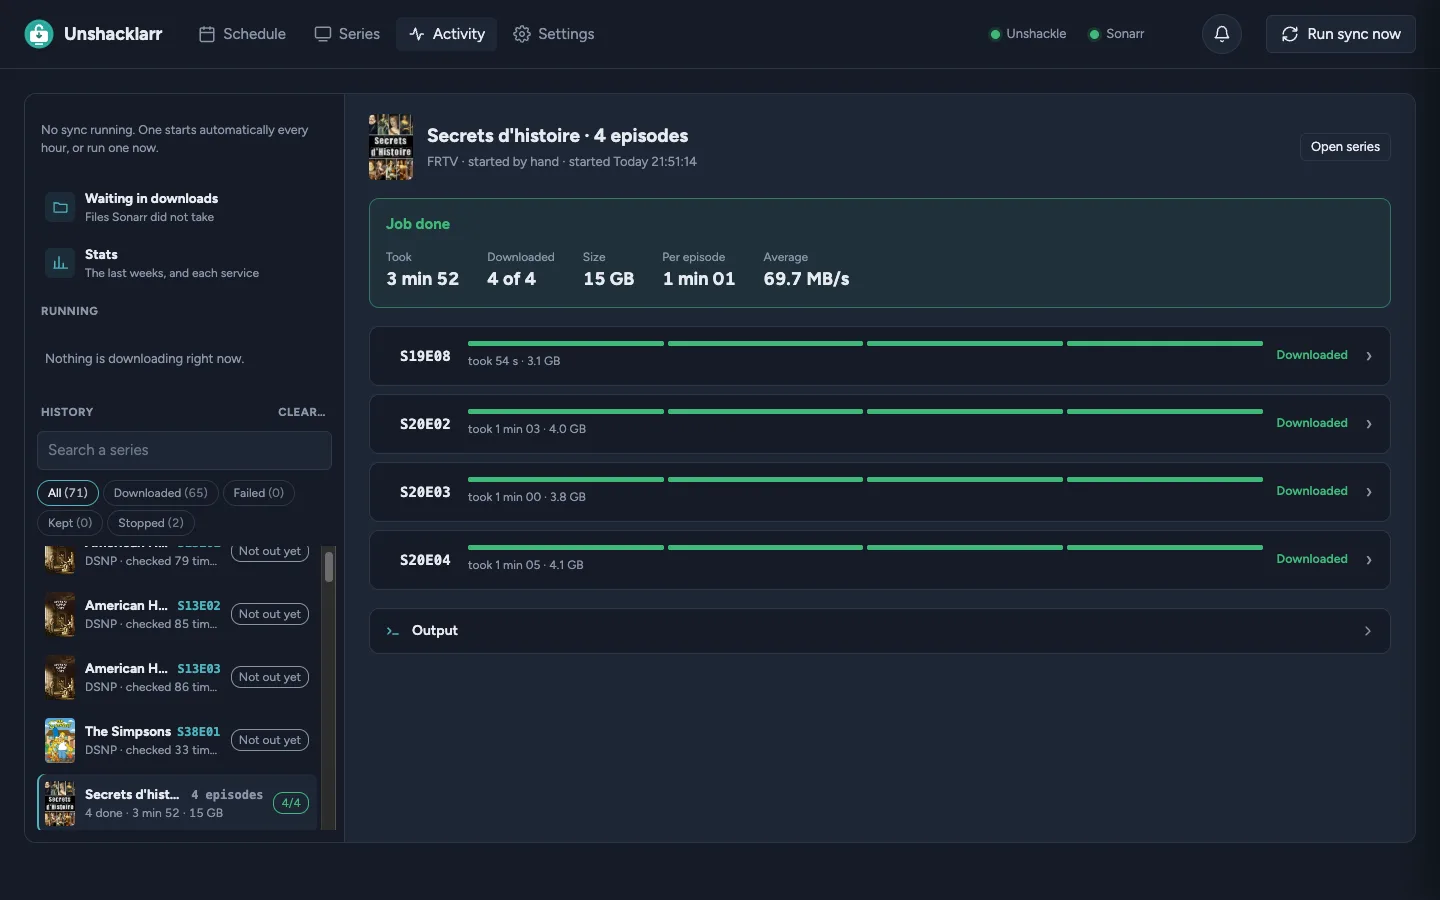
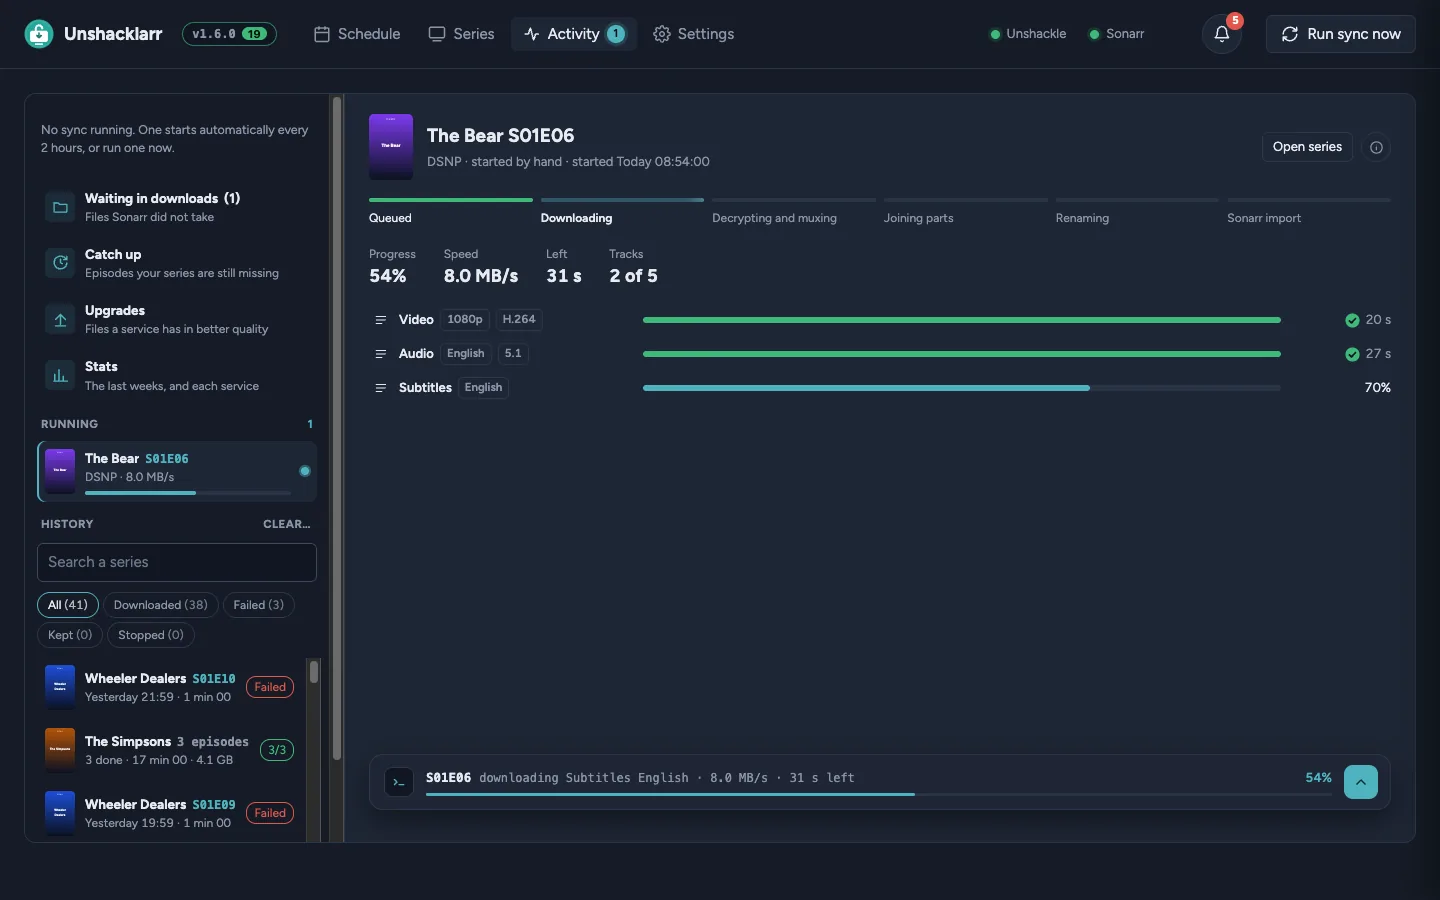
docs: 1.6.0 prepared, its changelog by theme, What's new for orig and any service option, the README's long jobs and proxies, Activity's screenshot with its bar

diff --git a/unshacklarr/static/js/news.js b/unshacklarr/static/js/news.js
@@ -20,6 +20,8 @@ const NEWS = [
   { id: "upgrade-spread", version: "1.5.0", title: "Spread the questions", sec: "upgrades", target: "#ug-spread-field" },
   { id: "upgrade-new", version: "1.5.0", title: "Check new series", sec: "upgrades", target: "#ug-new-field" },
   { id: "downloads-at-once", version: "1.5.0", title: "Downloads at once", sec: "unshackle", target: "#ux-at-once-field" },
+  { id: "orig-audio", version: "1.6.0", title: "orig in the accepted audio languages", sec: "downloads", target: "#dx-audio" },
+  { id: "any-service-option", version: "1.6.0", title: "Any service option", sec: "downloads", target: "#svc-defaults" },
 ];
 const NEWS_KINDS = { new: "New", improved: "Improved", fix: "Fix", security: "Security", note: "Note" };
 const versionKey = (v) => String(v || "0").split(".").map((n) => parseInt(n, 10) || 0).reduce((a, n) => a * 1000 + n, 0);

diff --git a/unshacklarr/__init__.py b/unshacklarr/__init__.py
@@ -1,1 +1,1 @@
-__version__ = "1.5.0"
+__version__ = "1.6.0"

diff --git a/CHANGELOG.md b/CHANGELOG.md
@@ -6,45 +6,50 @@ Every change worth knowing, newest first. The format follows
 
 ## [Unreleased]
 
+Long jobs you can steer while they run, proxies that hold, and a security update of aiohttp: update soon if
+Unshacklarr can be reached from outside your network.
+
+### Security
+
+- **aiohttp 3.14.4.** The server no longer waits without end for a request's headers, and can no longer be made to use
+  too much memory or CPU (two high-severity advisories); a shared cookie keeps its Secure attribute. (#24)
+
 ### Added
 
-- **orig in the accepted audio languages:** each series' original language as Sonarr gives it, so "orig, fr" works
-  for every series at once (ja or fr for an anime, fr for a French series).
-- **The API speaks the service's numbering:** `"numbering": "service"` takes Disney+'s S04E05 for the episode it is in
+**📦 Long jobs**
+- **A bar at the bottom of a job.** The episode going on stays in sight however long the job; one tap on the bar opens
+  its output, a click beside folds it. On a phone, the job's buttons are in it too.
+- **Show or hide a job's episodes.** Click Done, Queued, Failed… in a job to hide those episodes or show them again.
+- **Options of a job.** While it runs, its download and service options can be changed for the episodes still to
+  come, starting from the ones they have now; the series stays as it is.
+- **Retry the failed episodes while the job runs**, and a retry goes before the episodes still to come.
+- **A job survives a restart.** Its queued episodes are kept on disk and queued again when Unshacklarr starts; a paused
+  job stays paused.
+- **Delete the job.** A job that is over leaves the history in one click.
+- **The video's codec in Activity.** Video 1080p SDR H.265: the codec asked while it downloads, the file's once made.
+
+**🌐 Proxies**
+- **A proxy that fails is tried again**, at once, 3 times, each on another server of the provider (nordvpn:fr). If it
+  still fails, the job pauses and you are told, instead of failing every episode left.
+- **A job keeps its NordVPN server.** With nordvpn:fr, its episodes go through the server the first one used, and back
+  to any French server if that one fails.
+
+**🎧 Services and languages**
+- **orig in the accepted audio languages.** Each series' original language as Sonarr gives it, so "orig, fr" works for
+  every series at once. In Settings › Download options.
+- **Any service option.** A flag the service on a remote server knows, such as AMZN's `-B`, can be written as is in a
+  service's or a series' options.
+- **The API speaks the service's numbering.** `"numbering": "service"` takes Disney+'s S04E05 for the episode it is in
   Sonarr, and `"audio": "fr"` lets Unshacklarr decide: download, download again, or add the French track.
-- **Delete the job:** a job that is over leaves the history in one click, every episode of it at once.
-- **A bar at the bottom of a job:** the episode going on stays in sight however long the job, its output opens in it
-  in one tap on the bar, a click beside folds it, and on a phone the job's buttons are there too.
-- **Show or hide a job's episodes:** click Done, Queued, Failed… in a job to hide those episodes or show them again.
-- **Retry the failed episodes while the job runs:** Retry N failed is there before the job ends, too.
-- **A retry comes first:** it goes before the episodes still to come, in its job and for a free download slot.
-- **A job keeps its NordVPN server:** with nordvpn:fr, its episodes go through the server the first one used (fr962),
-  back to any French server if that one fails.
-- **A proxy that fails is tried again:** at once, 3 times, each on another server of the provider (nordvpn:fr); if it
-  still fails, its job pauses and you are told, instead of failing every episode left.
-- **The video's codec in Activity:** an episode's video track says its codec (Video 1080p SDR H.265): the one asked
-  while it downloads, the one the file came in once made.
-- **Options of a job:** while it runs, a job's download and service options can be changed for its episodes still to
-  come, starting from the ones they have now; only what you change is kept, the series left as it is.
-- **A job survives a restart:** its queued episodes are kept on disk and queued again when Unshacklarr starts, a paused
-  job still paused.
-- **Any service option:** a flag the remote server's service knows, such as AMZN's `-B`, can be written as is in
-  a service's or a series' options.
 
 ### Fixed
 
-- **aiohttp 3.14.4:** fixes a server that waited without end for a request's headers and could be made to use too much
-  memory or CPU (two high-severity advisories), and a shared cookie's Secure attribute.
-- **The output's scrollbar can be dragged:** the text no longer covers it when the output is wider than its box.
-- **A title numbered as a chapter is found:** TVDB's "PAGE 14 Donjon" is Netflix's "Donjon" (Black Clover), as "E6 …" already was.
-- **No more "Other title" for a translated title:** a service's "Donjon" is Sonarr's "Dungeon", by TVDB's title in your
-  language; "TBC" counts as no title there too.
-- **Seasons on the service on a phone:** the field gets the full keyboard, so `=` and `,` can be typed.
-- **An episode titled "TBC" is found:** it is matched by its number, like "TBA", instead of showing as not on the service.
-- **A job picked up after a restart is no longer lost:** a retried episode listed twice made Sonarr refuse the list; a job that
-  cannot start is kept for the next start instead of the queue being written empty.
-- **Activity no longer freezes with a large job:** the episodes that don't change are no longer redrawn every second.
-- **Service options through a remote server:** `-B`, `--atmos` and the others now reach it; it used to download without them.
+- **Service options now reach a remote server.** `-B`, `--atmos` and the others were left out of a download through it.
+- **Activity no longer freezes with a large job.** The episodes that don't change are no longer redrawn every second.
+- **More episodes found by their title.** "TBC" counts as no title, like "TBA"; TVDB's "PAGE 14 Donjon" is Netflix's
+  "Donjon"; a title only translated ("Dungeon", "Donjon") is no longer marked *Other title*.
+- **The output's scrollbar can be dragged.** The text covered it when the output was wider than its box.
+- **Seasons on the service on a phone.** The field gets the full keyboard, so `=` and `,` can be typed.
 
 ## [1.5.0] - 2026-10-17
 

diff --git a/README.md b/README.md
@@ -86,6 +86,10 @@ flowchart LR
     <td valign="top">⬆ <b>Upgrades</b><br>The files your quality ladder says could be better, checked against the service by themselves every week, and replaced when you tick them.</td>
   </tr>
   <tr>
+    <td valign="top">📦 <b>Long jobs</b><br>A whole series in one job, steered while it runs: its options changed for the episodes still to come, failed ones retried first, its output a tap away, and its queue kept across a restart.</td>
+    <td valign="top">🌐 <b>Proxies that hold</b><br>A proxy that fails is tried again on another server of the provider, a job keeps the NordVPN server that worked, and pauses rather than failing every episode left.</td>
+  </tr>
+  <tr>
     <td valign="top">📱 <b>On a phone</b><br>An installable app with a tab bar, live progress and push notifications, once the page is served over HTTPS.</td>
     <td valign="top">🌍 <b>Your language</b><br>English, French, Spanish, German, Brazilian Portuguese, Italian, Russian, Simplified Chinese and Japanese, notifications included.</td>
   </tr>
@@ -105,7 +109,7 @@ flowchart LR
     <td width="50%" valign="top"><img src="docs/screenshots/schedule.webp" alt="The Schedule: the coming episodes by day and the time each is tried"><br>📅 <b>Schedule</b>: the coming episodes by day, when each is tried, the late ones in one banner.</td>
   </tr>
   <tr>
-    <td valign="top"><img src="docs/screenshots/activity.webp" alt="Activity: a finished job, its time, size and episodes"><br>📈 <b>Activity</b>: downloads live, track by track and through the mux, then their history and stats per week and per service.</td>
+    <td valign="top"><img src="docs/screenshots/activity.webp" alt="Activity: an episode downloading track by track, its speed and time left, and the bar at the bottom that opens its output"><br>📈 <b>Activity</b>: downloads live, track by track and through the mux, the output one tap away, then their history and stats per week and per service.</td>
     <td valign="top" align="center"><img src="docs/screenshots/mobile-series.webp" width="31%" alt="The Series page on a phone"> <img src="docs/screenshots/mobile-schedule.webp" width="31%" alt="The Schedule on a phone"> <img src="docs/screenshots/mobile-settings.webp" width="31%" alt="Settings on a phone, as a list of sections"><br>📱 <b>On a phone</b>: the same app, with a tab bar.</td>
   </tr>
 </table>
